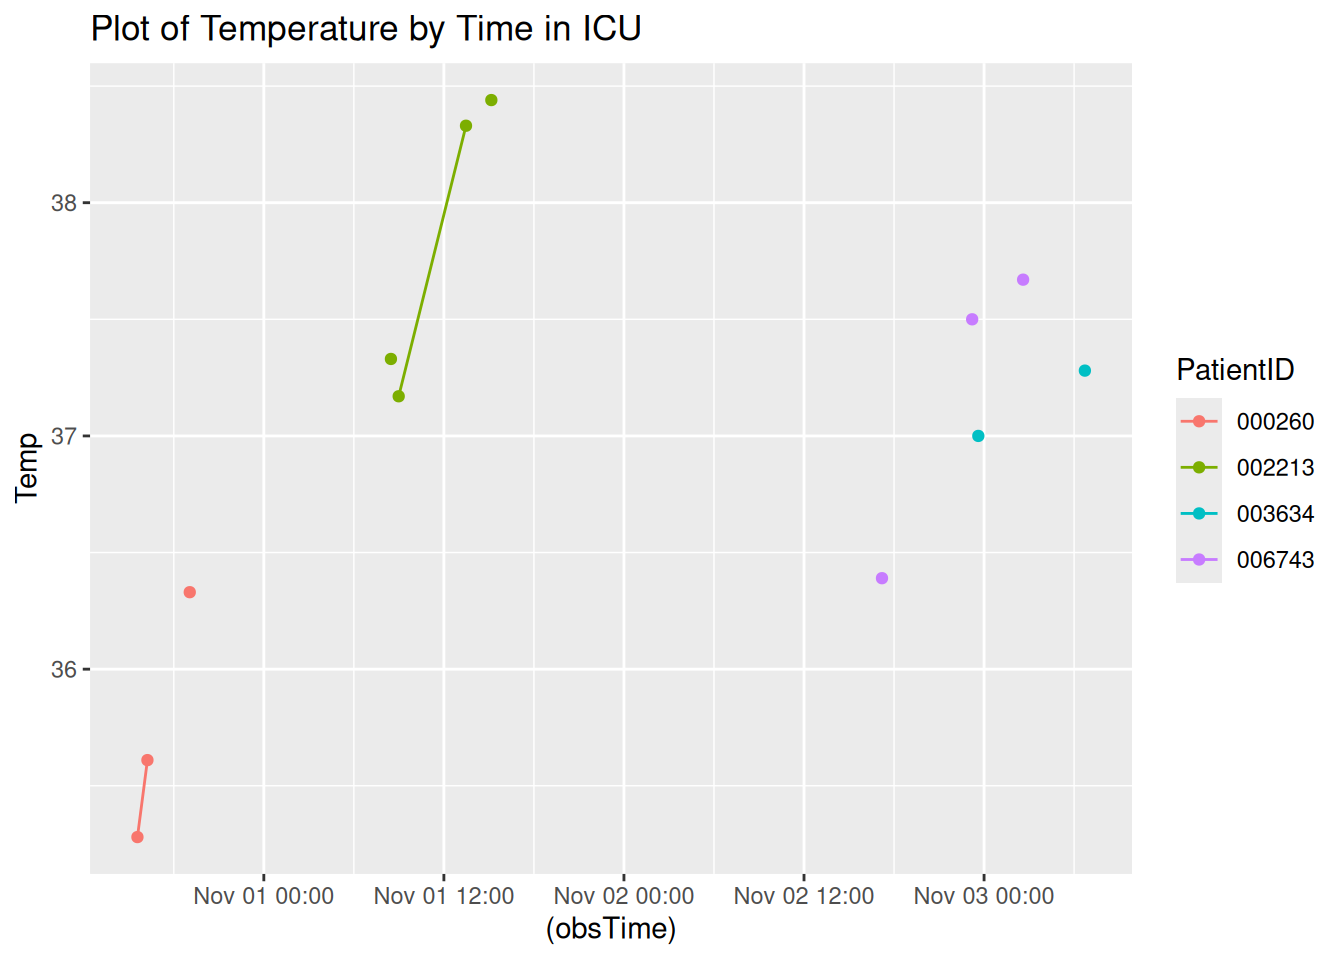
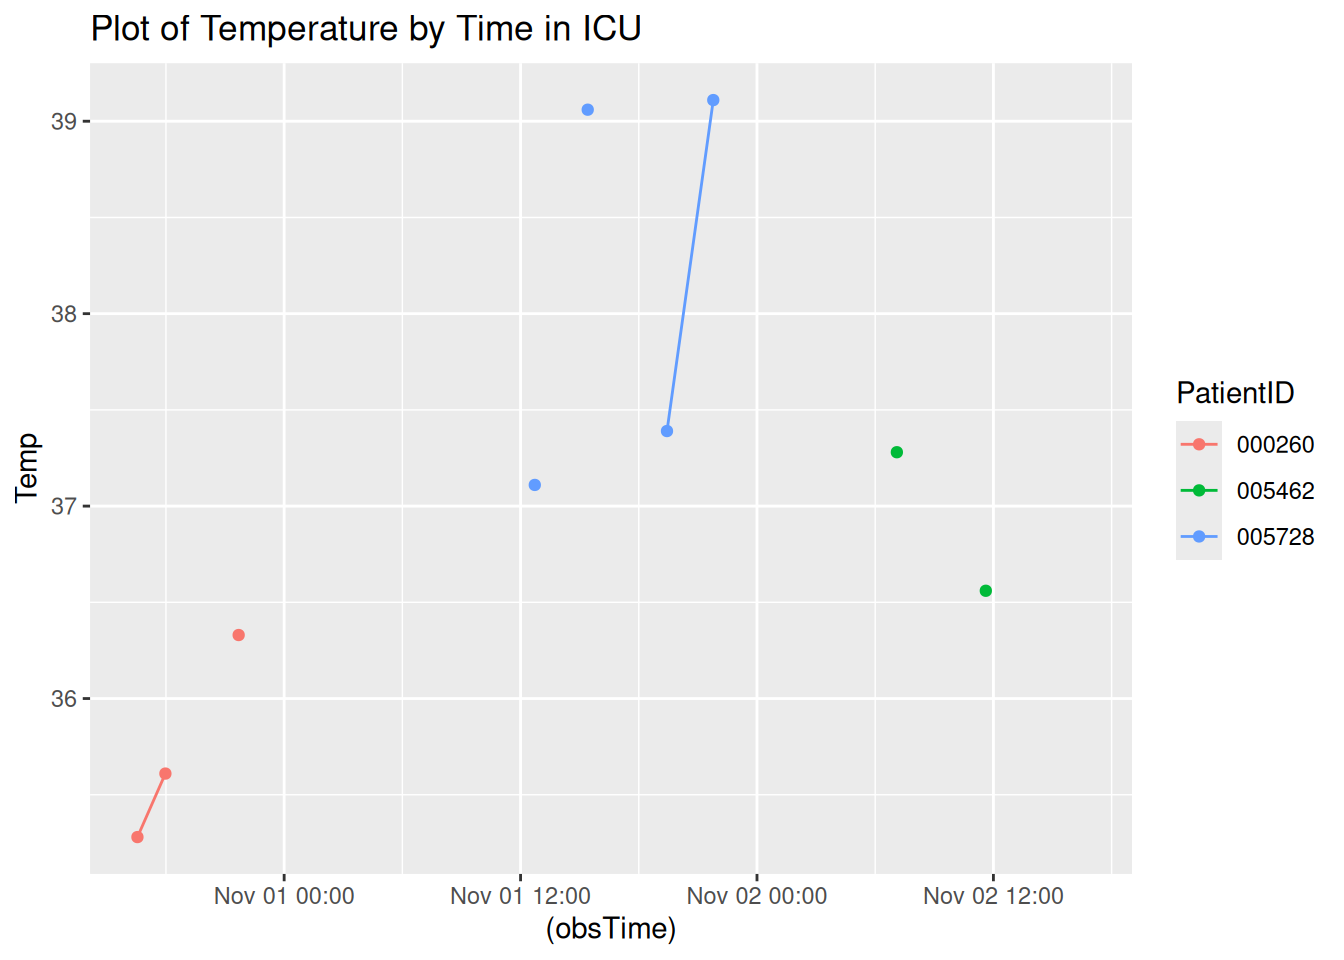
Updated report

diff --git a/A7.html b/A7.html
@@ -119,7 +119,7 @@ pre > code.sourceCode > span > a:first-child::before { text-decoration: underlin
 </div>
 <div class="code-copy-outer-scaffold"><div class="sourceCode cell-code" id="cb4"><pre class="sourceCode r code-with-copy"><code class="sourceCode r"><span id="cb4-1"><a href="#cb4-1" aria-hidden="true" tabindex="-1"></a><span class="fu">toc</span>()</span></code></pre></div><button title="Copy to Clipboard" class="code-copy-button"><i class="bi"></i></button></div>
 <div class="cell-output cell-output-stdout">
-<pre><code>23.506 sec elapsed</code></pre>
+<pre><code>9.762 sec elapsed</code></pre>
 </div>
 <div class="code-copy-outer-scaffold"><div class="sourceCode cell-code" id="cb6"><pre class="sourceCode r code-with-copy"><code class="sourceCode r"><span id="cb6-1"><a href="#cb6-1" aria-hidden="true" tabindex="-1"></a><span class="fu">tic</span>()</span>
 <span id="cb6-2"><a href="#cb6-2" aria-hidden="true" tabindex="-1"></a>test1<span class="ot">=</span><span class="fu">makeSepsisDataset</span>(<span class="at">n=</span><span class="dv">50</span>,<span class="at">read_fn =</span> <span class="st">"read_delim"</span>)</span>
@@ -129,7 +129,7 @@ pre > code.sourceCode > span > a:first-child::before { text-decoration: underlin
 </div>
 <div class="code-copy-outer-scaffold"><div class="sourceCode cell-code" id="cb8"><pre class="sourceCode r code-with-copy"><code class="sourceCode r"><span id="cb8-1"><a href="#cb8-1" aria-hidden="true" tabindex="-1"></a><span class="fu">toc</span>()</span></code></pre></div><button title="Copy to Clipboard" class="code-copy-button"><i class="bi"></i></button></div>
 <div class="cell-output cell-output-stdout">
-<pre><code>21.073 sec elapsed</code></pre>
+<pre><code>8.432 sec elapsed</code></pre>
 </div>
 <div class="code-copy-outer-scaffold"><div class="sourceCode cell-code" id="cb10"><pre class="sourceCode r code-with-copy"><code class="sourceCode r"><span id="cb10-1"><a href="#cb10-1" aria-hidden="true" tabindex="-1"></a><span class="co"># n=100</span></span>
 <span id="cb10-2"><a href="#cb10-2" aria-hidden="true" tabindex="-1"></a><span class="fu">tic</span>()</span>
@@ -140,7 +140,7 @@ pre > code.sourceCode > span > a:first-child::before { text-decoration: underlin
 </div>
 <div class="code-copy-outer-scaffold"><div class="sourceCode cell-code" id="cb12"><pre class="sourceCode r code-with-copy"><code class="sourceCode r"><span id="cb12-1"><a href="#cb12-1" aria-hidden="true" tabindex="-1"></a><span class="fu">toc</span>()</span></code></pre></div><button title="Copy to Clipboard" class="code-copy-button"><i class="bi"></i></button></div>
 <div class="cell-output cell-output-stdout">
-<pre><code>39.359 sec elapsed</code></pre>
+<pre><code>13.59 sec elapsed</code></pre>
 </div>
 <div class="code-copy-outer-scaffold"><div class="sourceCode cell-code" id="cb14"><pre class="sourceCode r code-with-copy"><code class="sourceCode r"><span id="cb14-1"><a href="#cb14-1" aria-hidden="true" tabindex="-1"></a><span class="fu">tic</span>()</span>
 <span id="cb14-2"><a href="#cb14-2" aria-hidden="true" tabindex="-1"></a>test1<span class="ot">=</span><span class="fu">makeSepsisDataset</span>(<span class="at">n=</span><span class="dv">100</span>,<span class="at">read_fn =</span> <span class="st">"read_delim"</span>)</span>
@@ -150,7 +150,7 @@ pre > code.sourceCode > span > a:first-child::before { text-decoration: underlin
 </div>
 <div class="code-copy-outer-scaffold"><div class="sourceCode cell-code" id="cb16"><pre class="sourceCode r code-with-copy"><code class="sourceCode r"><span id="cb16-1"><a href="#cb16-1" aria-hidden="true" tabindex="-1"></a><span class="fu">toc</span>()</span></code></pre></div><button title="Copy to Clipboard" class="code-copy-button"><i class="bi"></i></button></div>
 <div class="cell-output cell-output-stdout">
-<pre><code>41.4 sec elapsed</code></pre>
+<pre><code>17.045 sec elapsed</code></pre>
 </div>
 <div class="code-copy-outer-scaffold"><div class="sourceCode cell-code" id="cb18"><pre class="sourceCode r code-with-copy"><code class="sourceCode r"><span id="cb18-1"><a href="#cb18-1" aria-hidden="true" tabindex="-1"></a><span class="co"># n=500</span></span>
 <span id="cb18-2"><a href="#cb18-2" aria-hidden="true" tabindex="-1"></a><span class="fu">tic</span>()</span>
@@ -161,7 +161,7 @@ pre > code.sourceCode > span > a:first-child::before { text-decoration: underlin
 </div>
 <div class="code-copy-outer-scaffold"><div class="sourceCode cell-code" id="cb20"><pre class="sourceCode r code-with-copy"><code class="sourceCode r"><span id="cb20-1"><a href="#cb20-1" aria-hidden="true" tabindex="-1"></a><span class="fu">toc</span>()</span></code></pre></div><button title="Copy to Clipboard" class="code-copy-button"><i class="bi"></i></button></div>
 <div class="cell-output cell-output-stdout">
-<pre><code>206.424 sec elapsed</code></pre>
+<pre><code>68.152 sec elapsed</code></pre>
 </div>
 <div class="code-copy-outer-scaffold"><div class="sourceCode cell-code" id="cb22"><pre class="sourceCode r code-with-copy"><code class="sourceCode r"><span id="cb22-1"><a href="#cb22-1" aria-hidden="true" tabindex="-1"></a><span class="fu">tic</span>()</span>
 <span id="cb22-2"><a href="#cb22-2" aria-hidden="true" tabindex="-1"></a>test1<span class="ot">=</span><span class="fu">makeSepsisDataset</span>(<span class="at">n=</span><span class="dv">500</span>,<span class="at">read_fn =</span> <span class="st">"read_delim"</span>)</span>
@@ -171,7 +171,7 @@ pre > code.sourceCode > span > a:first-child::before { text-decoration: underlin
 </div>
 <div class="code-copy-outer-scaffold"><div class="sourceCode cell-code" id="cb24"><pre class="sourceCode r code-with-copy"><code class="sourceCode r"><span id="cb24-1"><a href="#cb24-1" aria-hidden="true" tabindex="-1"></a><span class="fu">toc</span>()</span></code></pre></div><button title="Copy to Clipboard" class="code-copy-button"><i class="bi"></i></button></div>
 <div class="cell-output cell-output-stdout">
-<pre><code>210.308 sec elapsed</code></pre>
+<pre><code>81.939 sec elapsed</code></pre>
 </div>
 </div>
 <p><strong>Task 3</strong></p>
@@ -197,7 +197,7 @@ pre > code.sourceCode > span > a:first-child::before { text-decoration: underlin
 <span id="cb28-4"><a href="#cb28-4" aria-hidden="true" tabindex="-1"></a></span>
 <span id="cb28-5"><a href="#cb28-5" aria-hidden="true" tabindex="-1"></a><span class="fu">Sys.time</span>()</span></code></pre></div><button title="Copy to Clipboard" class="code-copy-button"><i class="bi"></i></button></div>
 <div class="cell-output cell-output-stdout">
-<pre><code>[1] "2025-10-31 15:34:38 UTC"</code></pre>
+<pre><code>[1] "2025-10-31 16:33:13 UTC"</code></pre>
 </div>
 <div class="code-copy-outer-scaffold"><div class="sourceCode cell-code" id="cb30"><pre class="sourceCode r code-with-copy"><code class="sourceCode r"><span id="cb30-1"><a href="#cb30-1" aria-hidden="true" tabindex="-1"></a>dfnew <span class="ot">&lt;-</span> df <span class="sc">%&gt;%</span></span>
 <span id="cb30-2"><a href="#cb30-2" aria-hidden="true" tabindex="-1"></a>  <span class="fu">subset</span>(SepsisLabel<span class="sc">==</span><span class="dv">1</span>)</span>
@@ -232,34 +232,25 @@ pre > code.sourceCode > span > a:first-child::before { text-decoration: underlin
 <td style="text-align: right;">NA</td>
 <td style="text-align: right;">24</td>
 <td style="text-align: right;">1</td>
-<td style="text-align: left;">2025-10-31 20:42:49</td>
+<td style="text-align: left;">2025-10-31 23:03:02</td>
 </tr>
 <tr class="even">
-<td style="text-align: left;">002213</td>
-<td style="text-align: right;">24</td>
-<td style="text-align: right;">61</td>
-<td style="text-align: right;">38.44</td>
-<td style="text-align: right;">19</td>
+<td style="text-align: left;">005462</td>
+<td style="text-align: right;">49</td>
+<td style="text-align: right;">102</td>
+<td style="text-align: right;">NA</td>
+<td style="text-align: right;">13</td>
 <td style="text-align: right;">1</td>
-<td style="text-align: left;">2025-11-01 15:09:43</td>
+<td style="text-align: left;">2025-11-02 16:38:32</td>
 </tr>
 <tr class="odd">
-<td style="text-align: left;">003634</td>
-<td style="text-align: right;">65</td>
-<td style="text-align: right;">80</td>
-<td style="text-align: right;">37.28</td>
-<td style="text-align: right;">18</td>
+<td style="text-align: left;">005728</td>
+<td style="text-align: right;">30</td>
+<td style="text-align: right;">131</td>
+<td style="text-align: right;">39.11</td>
+<td style="text-align: right;">13</td>
 <td style="text-align: right;">1</td>
-<td style="text-align: left;">2025-11-03 06:43:05</td>
-</tr>
-<tr class="even">
-<td style="text-align: left;">006743</td>
-<td style="text-align: right;">60</td>
-<td style="text-align: right;">60</td>
-<td style="text-align: right;">37.67</td>
-<td style="text-align: right;">20</td>
-<td style="text-align: right;">1</td>
-<td style="text-align: left;">2025-11-03 02:36:08</td>
+<td style="text-align: left;">2025-11-01 21:46:52</td>
 </tr>
 </tbody>
 </table>
